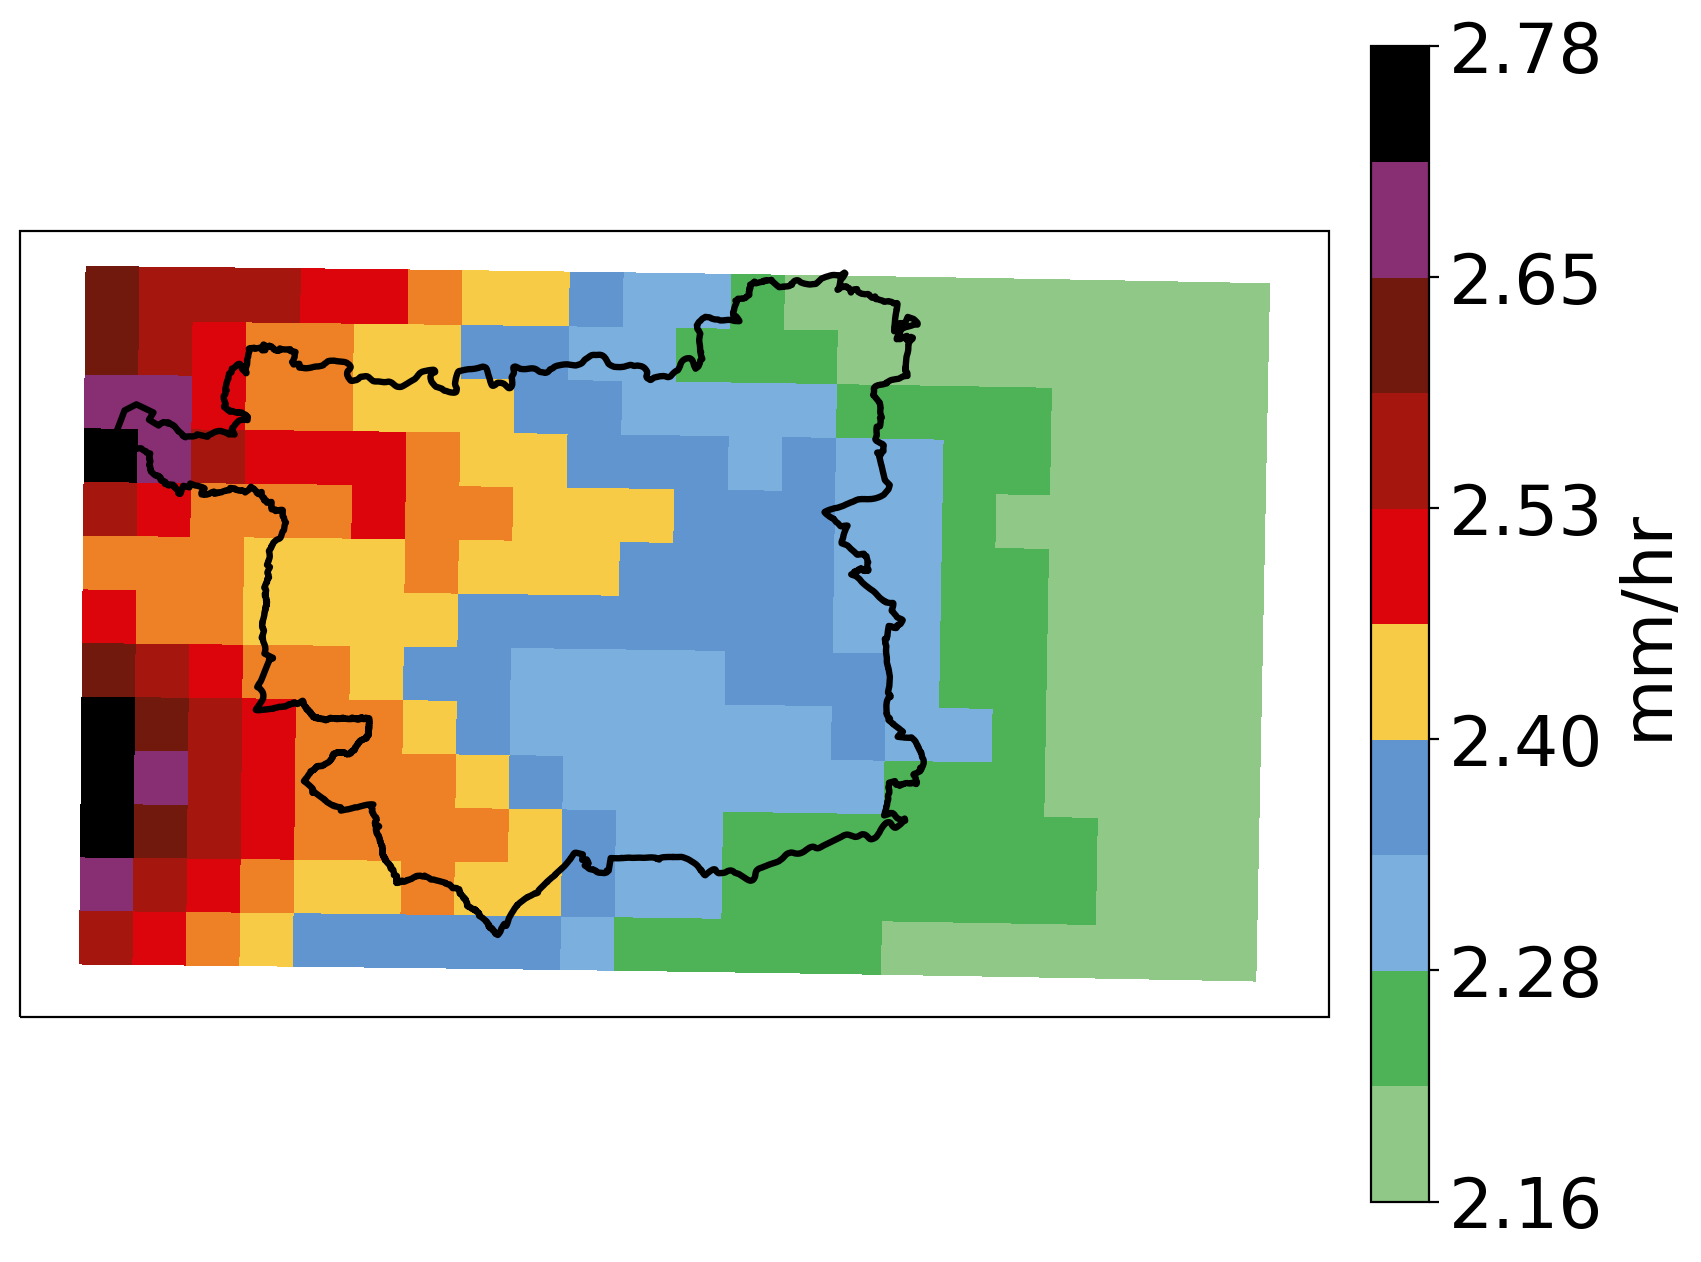
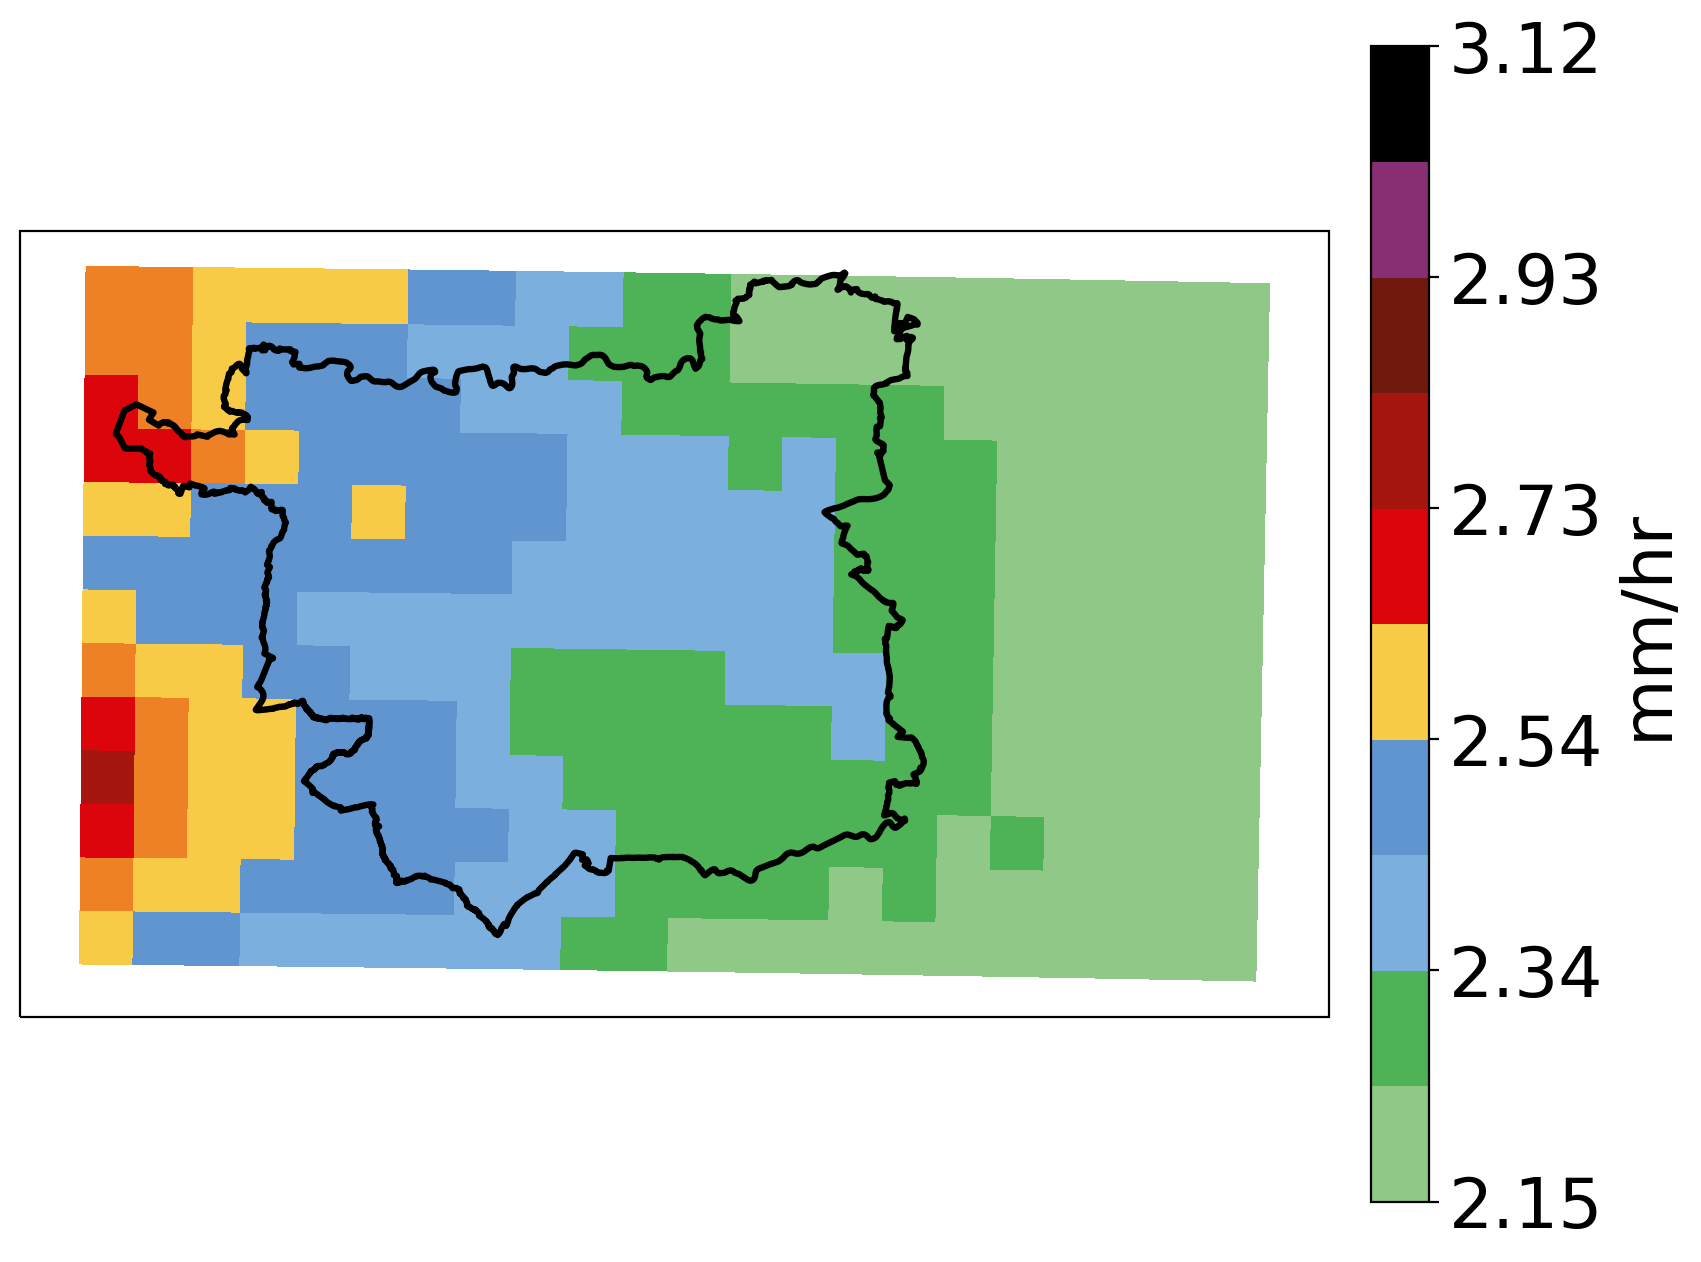
.

diff --git a/RegionalRainfallStats/Model/testing.py b/RegionalRainfallStats/Model/testing.py
@@ -1,4 +1,4 @@
-run_number =12
+run_number =9
 stat = 'jja_p99'
 
 em_cube_stat = 'EM_mean'
@@ -60,8 +60,8 @@ def create_leeds_at_centre_narrow_outline (required_proj):
     # lats = [-1.50,-0.94, -0.94, -1.50] 
     
     # ### 9.
-    # lons = [53.94, 53.94, 53.68, 53.68]
-    # lats = [-1.82,-1.08, -1.08, -1.82]     
+    lons = [53.94, 53.94, 53.68, 53.68]
+    lats = [-1.82,-1.08, -1.08, -1.82]     
     
     ## 10. leeds box
     # lons = [53.94, 53.94, 53.68, 53.68]
@@ -72,11 +72,11 @@ def create_leeds_at_centre_narrow_outline (required_proj):
     # lats = [-1.99,-1.28, -1.28, -1.99]   
     
     ### 12
-    lons = [54.04, 54.04 ,53.68, 53.68]
-    lats = [-1.82,-1.28, -1.28, -1.82]        
+    # lons = [54.04, 54.04 ,53.68, 53.68]
+    # lats = [-1.82,-1.28, -1.28, -1.82]        
      
     ### 13.     
-    # lons = [53.94, 53.94, 53.68, 53.68]
+    # lons = [53.94, 53.94, 53.58, 53.58]
     # lats = [-1.82,-1.28, -1.28, -1.82]    
     
     # 14
@@ -133,28 +133,13 @@ leeds_at_centre_narrow_gdf = create_leeds_at_centre_narrow_outline({'init' :'eps
 stats_cube = iris.load("Outputs/RegionalRainfallStats/NetCDFs/Model/Allhours/EM_Summaries/{}_{}{}.nc".format(stat, em_cube_stat, overlapping))[0]
   
 # Trim to smaller area
-if region == 'Northern':
-        stats_cube = trim_to_bbox_of_region(stats_cube, wider_northern_gdf)
-elif region == 'leeds-at-centre':
-        stats_cube = trim_to_bbox_of_region(stats_cube, leeds_at_centre_gdf)
-elif region == 'leeds':
-        stats_cube = trim_to_bbox_of_region(stats_cube, leeds_gdf)    
-elif region == 'leeds-at-centre-narrow':
-        stats_cube = trim_to_bbox_of_region(stats_cube, leeds_at_centre_narrow_gdf)                       
-        
-# Mask the data so as to cover any cells not within the specified region 
-if region == 'Northern':
-        stats_cube.data = ma.masked_where(wider_northern_mask == 0, stats_cube.data)
-        # Trim to the BBOX of Northern England
-        # This ensures the plot shows only the bbox around northern england
-        # but that all land values are plotted
-        stats_cube = trim_to_bbox_of_region(stats_cube, northern_gdf)
-elif region == 'UK':
-        stats_cube.data = ma.masked_where(uk_mask == 0, stats_cube.data)  
+stats_cube = trim_to_bbox_of_region(stats_cube, leeds_at_centre_narrow_gdf)                       
+       
   
 # Find the minimum and maximum values to define the spread of the pot
 local_min = stats_cube.data.min()
 local_max = stats_cube.data.max()
+percent_diff = round((local_max-local_min)/((local_max+local_min)/2)*100,2)
 local_min = 2.15
 local_max = 3.12
 contour_levels = np.linspace(local_min, local_max, 11,endpoint = True)
@@ -203,7 +188,7 @@ elif stat == 'whprop':
     cb1.set_label('%', size = 25)
 cb1.ax.set_yticklabels(["{:.{}f}".format(i, n_decimal_places) for i in cb1.get_ticks()])   
 
-percent_diff = round((local_max-local_min)/((local_max+local_min)/2)*100,2)
+
 print(percent_diff)
 
 num_cells = stats_cube.shape[0] * stats_cube.shape[1] 
